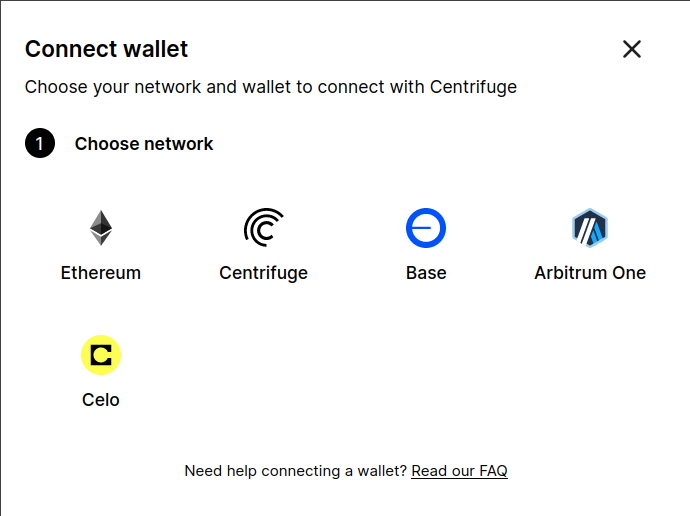
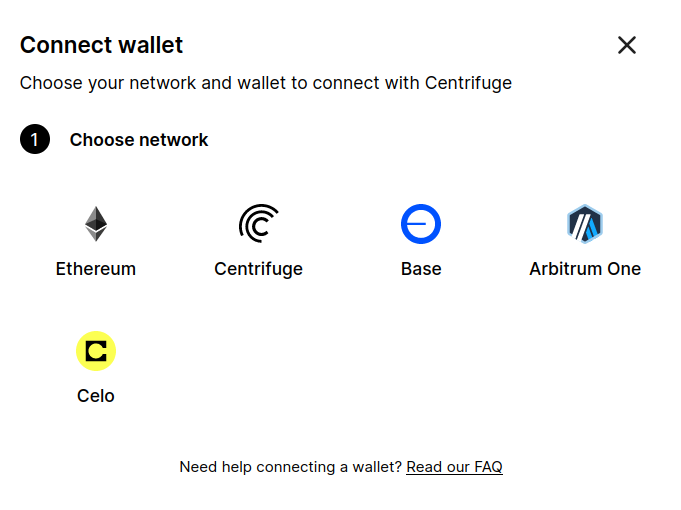
Remove old cent-chain info, fix wallet guide images

diff --git a/docs/use/setup-wallet/index.md b/docs/use/setup-wallet/index.md
@@ -12,9 +12,9 @@ DISCLAIMER: _Use of this guide is at your own risk. To the maximum extent permit
 
 
 ## EVM and Substrate Wallets
-Centrifuge supports both EVM and Substrate accounts. If you already have an Ethereum compatible wallet setup, the easiest way is to use your existing Ethereum wallet. For expert users it might be helpful to use a Substrate compatible wallet such as Polkadot Vault. EVM wallets can be used to connect to any of the live networks while Substrate Wallets only work with Centrifuge chain.
+Centrifuge supports both EVM and Substrate accounts. If you already have an Ethereum compatible wallet setup, the easiest way is to use your existing Ethereum wallet. For expert users it might be helpful to use a Substrate compatible wallet such as Polkadot Vault. EVM wallets can be used to connect to any of the live networks while Substrate Wallets only work with Centrifuge Chain.
 
-A Centrifuge substrate address will begin with `4...`, an EVM address will begin with `0x...`.
+A Centrifuge Substrate address will begin with `4...`, an EVM address will begin with `0x...`.
 
 ### Sending tokens between EVM & Substrate Wallets on Centrifuge Chain
 The Centrifuge App can be used to send and receive tokens. It will take care of the address conversion between Substrate and EVM addresses.
@@ -22,7 +22,7 @@ The Centrifuge App can be used to send and receive tokens. It will take care of 
 #### Receiving CFG on an EVM Account
 To receive CFG from someone using a Substrate account, you will need to get your Substrate address. Go to the [App Portfolio](https://app.centrifuge.io/portfolio) and click on [receive](https://app.centrifuge.io/portfolio?receive=CFG) next to your CFG Balance. The Substrate address is then shown to you in the sidebar:
 
-![](./images/receive_cfg.png)
+![](./images/receive_cfg.png#width=80%;)
 
 If you are receiving CFG from someone using an EVM account on an EVM account, they can simply use your EVM address and their wallet to send the tokens.
 
@@ -33,7 +33,7 @@ To receive CFG on a Substrate account, simply give the sender your address. The 
 #### Sending CFG to any Account
 To send CFG from your wallet to any other account (Substrate or EVM), you can use the app. Go to the [App Portfolio](https://app.centrifuge.io/portfolio) and click on [send](https://app.centrifuge.io/portfolio?send=CFG) next to your CFG Balance.
 
-![](./images/send_cfg.png)
+![](./images/send_cfg.png#width=80%;)
 
 This will allow you to send to an address of either format.
 
@@ -44,10 +44,10 @@ When using Centrifuge App you can choose between pools deployed on Centrifuge Ch
 In the second step select the wallet of your choice. On Centrifuge Chain the system currently supports [Talisman](https://www.talisman.xyz/), [Subwallet](https://www.subwallet.app/download.html?lang=1), [Polkadot.js](https://polkadot.js.org/extension/), [Fearless Wallet](https://fearlesswallet.io/) and EVM compatible wallets [MetaMask](https://metamask.io/download.html), [Coinbase Wallet](https://www.coinbase.com/wallet) and multiple other wallets through [Wallet Connect](https://walletconnect.com/).
 ![](./images/wallet-component-cf.png#width=40%;)
 
-![](./images/wallet-component-eth.png#width=40%;)
+![](./images/wallet-component-eth.png#width=70%;)
 
 ## Setting up an Ethereum wallet
-On Ethereum and other EVM compatible networks including Centrifuge chain, the system supports [MetaMask](https://metamask.io/download.html), [Coinbase Wallet](https://www.coinbase.com/wallet) and multiple other wallets through [Wallet Connect](https://walletconnect.com/).
+On Ethereum and other EVM compatible networks including Centrifuge Chain, the system supports [MetaMask](https://metamask.io/download.html), [Coinbase Wallet](https://www.coinbase.com/wallet) and multiple other wallets through [Wallet Connect](https://walletconnect.com/).
 
 Metamask is a popular browser extension allowing you to access EVM compatible blockchains. If you do not yet have MetaMask set up, head over to [MetaMask](https://metamask.io/download/) to download and install MetaMask.
 
@@ -55,7 +55,7 @@ On the [Centrifuge App](https://app.centrifuge.io) to connect a MetaMask wallet:
 - Click on the Connect button in the top right corner.
 - Choose the MetaMask wallet in the wallet dialog.
 
-![](./images/choose_network.png)
+![](./images/choose_network.png#width=70%;)
 
 ## Using Ledger with Centrifuge
 If you do not yet have your Ledger configured, read their [getting started guide](https://support.ledger.com/hc/en-us/articles/360015259693-Choose-your-Ledger-device?docs=true). You will also need to install the [Ethereum App](https://support.ledger.com/hc/en-us/articles/360009576554-Ethereum-ETH-) and [enable blind signing](https://support.ledger.com/hc/en-us/articles/4405481324433-Enable-blind-signing-in-the-Ethereum-ETH-app?docs=true). Make sure to [connect your ledger](https://support.ledger.com/hc/en-us/articles/4404366864657-Connect-your-Ledger-to-MetaMask) to Metamask.
@@ -79,11 +79,11 @@ To set up Talisman:
 - Create a wallet using the instructions from Talisman [here](https://docs.talisman.xyz/talisman/navigating-the-paraverse/account-management/create-a-talisman-wallet).
 You can create or import an account in Talisman by clicking on `More options` and `Add account`. This will open a browser tab that allows you to create a new account or add existing accounts via Recovery Phrase, JSON or from your Ledger.
 
-![](./images/Talisman_Newaccount.png#width=60%;)
+![](./images/Talisman_Newaccount.png#width=70%;)
 
 If you want to create a new account, click on `New Account` and `Polkadot`.
 
-![](./images/Talisman_Newaccount_Create.png#width=60%;)
+![](./images/Talisman_Newaccount_Create.png#width=70%;)
 
 Input a name and Talisman will create the account for you. Note, that by default Talisman will display your Polkadot and Kusama balances.
 
@@ -95,7 +95,7 @@ To find the CFG address of your account, click on `Copy Address` and search for 
 
 Finally, to see an overview of your CFG accounts, click on "Receive" under your account. To see your native wallet address on Centrifuge Chain select CFG (Centrifuge) from the list.
 
-![](./images/talisman-wallet.png#width=400)
+![](./images/talisman-wallet.png#width=600)
 
 ### Using the Polkadot Vault App (experts only)
 The [Polkadot Vault](https://signer.parity.io/ ) (formerly `Parity Signer`) is a cold storage solution that allows you to use a phone in airplane mode as an air-gapped wallet. The Vault app is not technically a wallet, as it does not allow to transfer funds. It is more of a key-chain tool that will enable you the create, manage, and restore accounts or transfer funds together with other wallets or the [Polkadot.js UI](https://wiki.polkadot.network/docs/polkadotjs-ui). Follow the instructions in their [guide](https://paritytech.github.io/parity-signer/tutorials/Start.html) to setup the wallet.

diff --git a/docs/build/cent-chain/index.md b/docs/build/cent-chain/index.md
@@ -7,39 +7,17 @@ redirect_from:
   - /build
   - /build/
 ---
+## Centrifuge Chain
 
-## Introduction
+Centrifuge Chain is our blockchain built with Rust and [Substrate](https://docs.substrate.io/), purpose built for real-world assets. Pools (and their assets, tranches, etc), [onchain governance](https://docs.centrifuge.io/use/governance-process/) and the Centrifuge treasury, and the CFG token live on Centrifuge Chain.
 
-### The Centrifuge Stack
-
-![Cent Stack](./images/cent-stack.png)
-
-The Centrifuge stack consists of a peer-to-peer messaging protocol to store and exchange business documents in a private, secure way. As the next layer, we built Centrifuge Chain using Substrate to hold the unalterable, single source of truth of these documents for all parties. Using Centrifuge Chain and dApps built on top, businesses can tokenize documents and use this as collateral to access financing. Tinlake is our securitization protocol for these tokenized assets built on Centrifuge Chain to optimize risk allocation and connect Centrifuge to the DeFi ecosystem.
-
-### Centrifuge Chain
-
-[Centrifuge Chain](https://github.com/centrifuge/centrifuge-chain) is the gateway for real-world assets to the Blockchain Multiverse. We built Centrifuge Chain on [Parity Substrate](https://docs.substrate.io/) with an initial bridge to Ethereum. This allows us to move faster and use a consistent approach for certain features.
-
-Substrate allows us to easily tap into the [Polkadot](https://polkadot.network) ecosystem and to connect with other blockchains that support the standard, which in turn increases interoperability.
-
-We envision a larger ecosystem of many, connected blockchains- where Dapps on Ethereum can use data from other chains, value can move freely, and Centrifuge Chain can [enable off-chain assets to access financing](https://medium.com/centrifuge/centrifuge-chain-the-gateway-for-real-world-assets-to-the-blockchain-multiverse-41dd5597ecf1) through DeFi.
+Investors can invest in assets on Centrifuge from other chains via Liquidity Pools deployed on supported chains. For example, a Liquidity Pool deployed on Ethereum allows users on Ethereum to invest in a pool on Centrifuge without leaving Ethereum.
 
 #### Centrifuge Chain Efficiencies
-
 Centrifuge Chain is optimized specifically for the transactions required by our specific use case. This focus allows us to improve upon our current architecture in a few key ways: speed, cost, storage efficiencies, and privacy.
 
 Ethereum works well for low volumes of high value transactions. High volumes of privacy-requiring use-cases require a different solution. The average business user, SMBs and large enterprises alike, would be paying many times more using Centrifuge on Ethereum compared to their existing solutions. It wouldn’t be worth it for most businesses to make a switch. But what if we could lower that cost and have high throughput capabilities?
 
-The transactions on the Centrifuge Chain are optimized for the small subset of operations needed by our specific use case. This allows for faster execution of logic and finality of transactions. The optimization of transactions, together with our PoS architecture, is also what brings down the transaction costs dramatically. Centrifuge Chain also implements a state rent model that requires users to pay for continuous availability of their data over long periods of time. This encourages decentralization because less resources are required to run a node. Building our own chain also allows us to improve upon the user and developer experience for Centrifuge. Our users require privacy, and this is something we can build for directly — targeting the features they need from the start. For developers, we can provide custom APIs and tools that come with the blockchain node itself instead of smart contract APIs which are harder to integrate with.
+The transactions on the Centrifuge Chain are optimized for the small subset of operations needed by our specific use case. This allows for faster execution of logic and finality of transactions. The optimization of transactions, together with our PoS architecture, is also what brings down the transaction costs dramatically. This encourages decentralization because less resources are required to run a node. Building our own chain also allows us to improve upon the user and developer experience for Centrifuge. Our users require privacy, and this is something we can build for directly — targeting the features they need from the start. For developers, we can provide custom APIs and tools that come with the blockchain node itself instead of smart contract APIs which are harder to integrate with.
 
 While there are downsides to building a single purpose chain, the advantages for our use case outweigh the costs. Integration with other Ethereum and DeFi projects becomes a bit more involved. Our experience with Ethereum development, combined with a standardized bridge to get data to/from our Parity Substrate based chain reduces the overhead substantially, while still benefiting from the upside of our own chain.
-
-## Further Resources
-
-### Substrate/Polkadot Resources
-
-- [Kusama Documentation](https://guide.kusama.network/docs/kusama-getting-started)
-- [W3F Guide](https://github.com/w3f/polkadot-secure-validator) on Production Grade Setups for Validators on Substrate chains
-- [Guides by Certus One](https://kb.certus.one/) (Cosmos Validator)
-- [Architecture Deep Dive by Chorus](https://gdoc.pub/doc/e/2PACX-1vQXb1kd0zqYT8K4B4XYb-lrlfRIuPDXsgiTjj94gDOjw3ezEUAtjvxR8yfbKJypmioKeGRrhkLCtZog)
-- [Polkadot Wiki](https://wiki.polkadot.network/docs/getting-started) (also covering Substrate relevant features)

diff --git a/docs/use/claim-cfg-rewards/index.md b/docs/use/claim-cfg-rewards/index.md
@@ -5,14 +5,13 @@ title: Claim CFG rewards
 contributors: <Dennis Wellmann:dennis@centrifuge.io>, <Nico Dreher:nico@centrifuge.io>
 ---
 ## Introduction
+**Note that CFG rewards have been [disabled per governance vote](https://github.com/centrifuge/cps/blob/main/cps/CP61.md). However, this article will remain live to help with any final claims of unclaimed rewards.** 
+
 This step-by-step guide to claiming Centrifuge tokens (CFG) as a reward for investments into Centrifuge pools leads investors through creating the required setup and then claiming the first and subsequent reward. Note that currently rewards can only be claimed for Ethereum-based pools through the [Rewards page](https://tinlake.centrifuge.io/rewards).
 
 CFG rewards are earned on Ethereum-based on Tinlake investments and are claimed on the Centrifuge Chain which is based on Polkadot. To claim rewards, the Tinlake investment account needs to be linked to a Centrifuge Chain account holding CFG
 
 CFG rewards are earned from the first day of investment and cannot be claimed before a minimum holding period of **30 days**. The investor's rewards are found on the [Rewards page](https://tinlake.centrifuge.io/rewards). Note that rewards may follow a declining curve since the reward rate is subject to governance. Previous governance proposals can be found in the [Forum](https://gov.centrifuge.io/c/governance/35).
-
-### About CFG
-CFG powers the Centrifuge protocol by staking towards Validators to help secure Centrifuge Chain, paying for transactions participating in on-chain governance for future chain upgrades.
 
 ## Claim CFG rewards step by step
 Claiming CFG rewards involves the following main steps:

diff --git a/docs/build/guides/index.md b/docs/build/guides/index.md
@@ -22,7 +22,7 @@ You will need them on the `Step 2.` below.
 
 1. ERC20 Approval
 
-    The user should call the ERC20 approval on the investment currency (e.g. USDC on Ethereum) to allow the Liquidity Pools contract to manage those funds for them
+    The user should call the ERC20 approval on the investment currency (e.g. USDC on Ethereum) to allow the Liquidity Pools contract to manage those funds for them.
     
 2. Pick the correct `LiquidityPool` instance
     
@@ -45,17 +45,15 @@ You will need them on the `Step 2.` below.
     
     Then, the pool issuer needs to fulfill this request. 
     
-    Once that's done, yield starts to accrue immediately and the user can claim their tranche tokens.
+    Once that's done, yield starts to accrue immediately, and the user can claim their tranche tokens.
     
 4. Claim the tranche tokens
 
-    Once the request from step 3. is fulfilled, the user can claim their tranche tokens equivalent to `y` by calling:
+    Once the request from step 3 is fulfilled, the user can claim their tranche tokens equivalent to `y` by calling:
 
     **`LiquidityPool.mint(uint256 y, address receiver)`**
     
     **NOTE**: `y` needs to be ≤ `maxDeposit`. The user can find that amount by calling **`LiquidityPool.maxDeposit`**.
-
-<br/>
 
 ## Overview
 

diff --git a/docs/build/tinlake/index.md b/docs/build/tinlake/index.md
@@ -9,6 +9,8 @@ contributors: <Dennis Wellmann:dennis@centrifuge.io>, <Devin Black:devin@centrif
 ### Overview
 [Tinlake](https://legacy.tinlake.centrifuge.io/) is Centrifuge's initial Ethereum-based, open, decentralized smart-contract based platform of asset pools bringing together pool issuers looking for financing and investors who seek to utilize the full potential of decentralized finance (DeFi).
 
+**Note that Tinlake has been replaced by the [Centrifuge App](https://app.centrifuge.io/), however _legacy_ Tinlake pools as described below are still live on the App. Newer pools do not use the below smart contracts, but rather are launched on Centrifuge Chain.**
+
 ### Tinlake from a borrower perspective
 Issuers can responsibly bridge real-world assets, such as invoices, mortgages or streaming royalties into DeFi and access bankless liquidity. They do this by tokenizing their financial assets into Non-Fungible Tokens (“NFTs”), using these NFTs as collateral in Tinlake Pools to draw funding.
 
